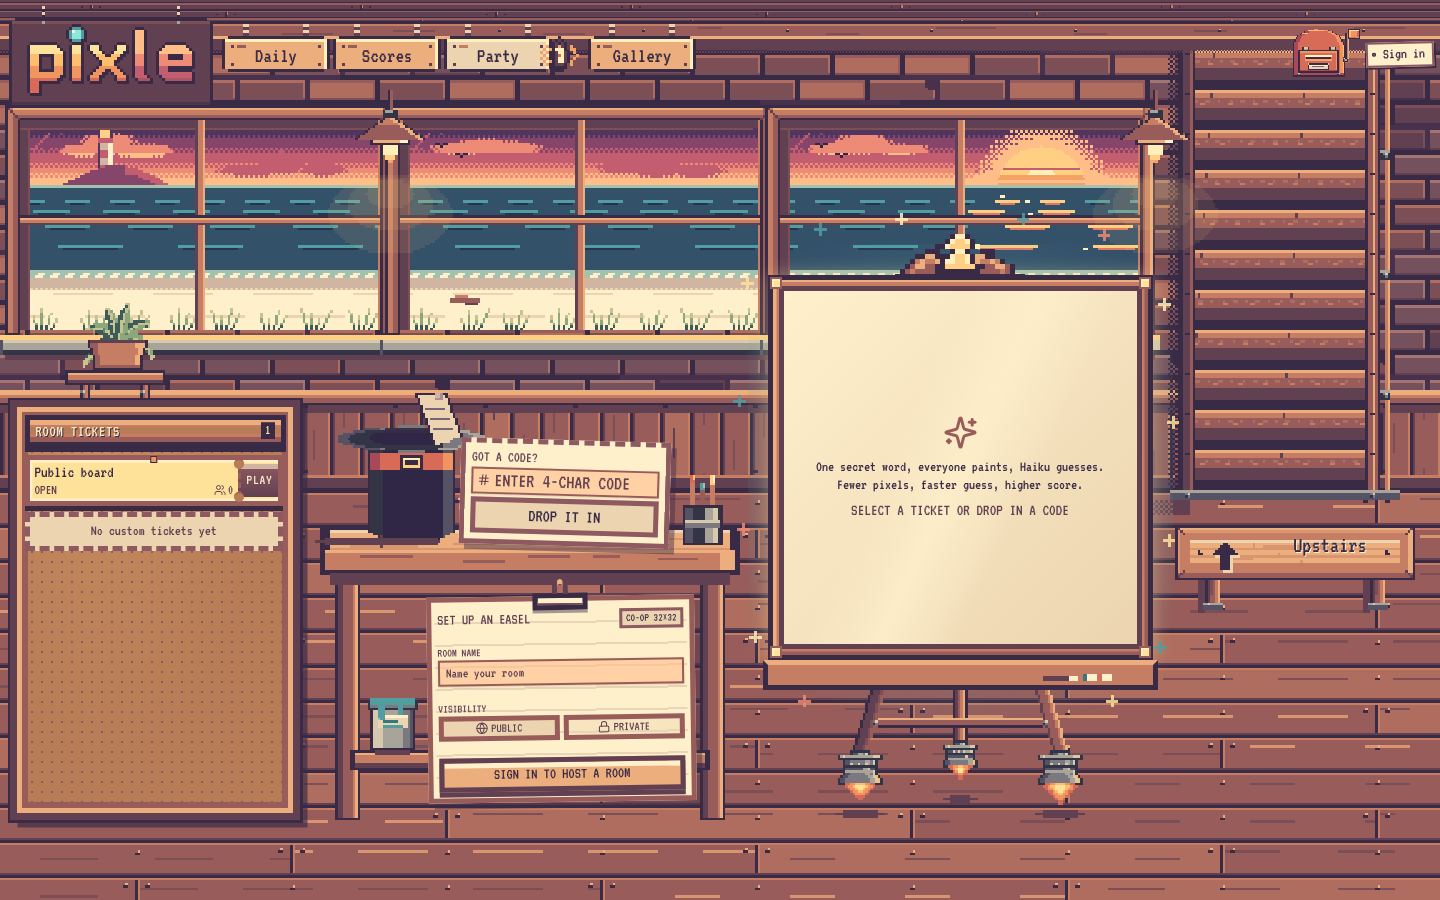
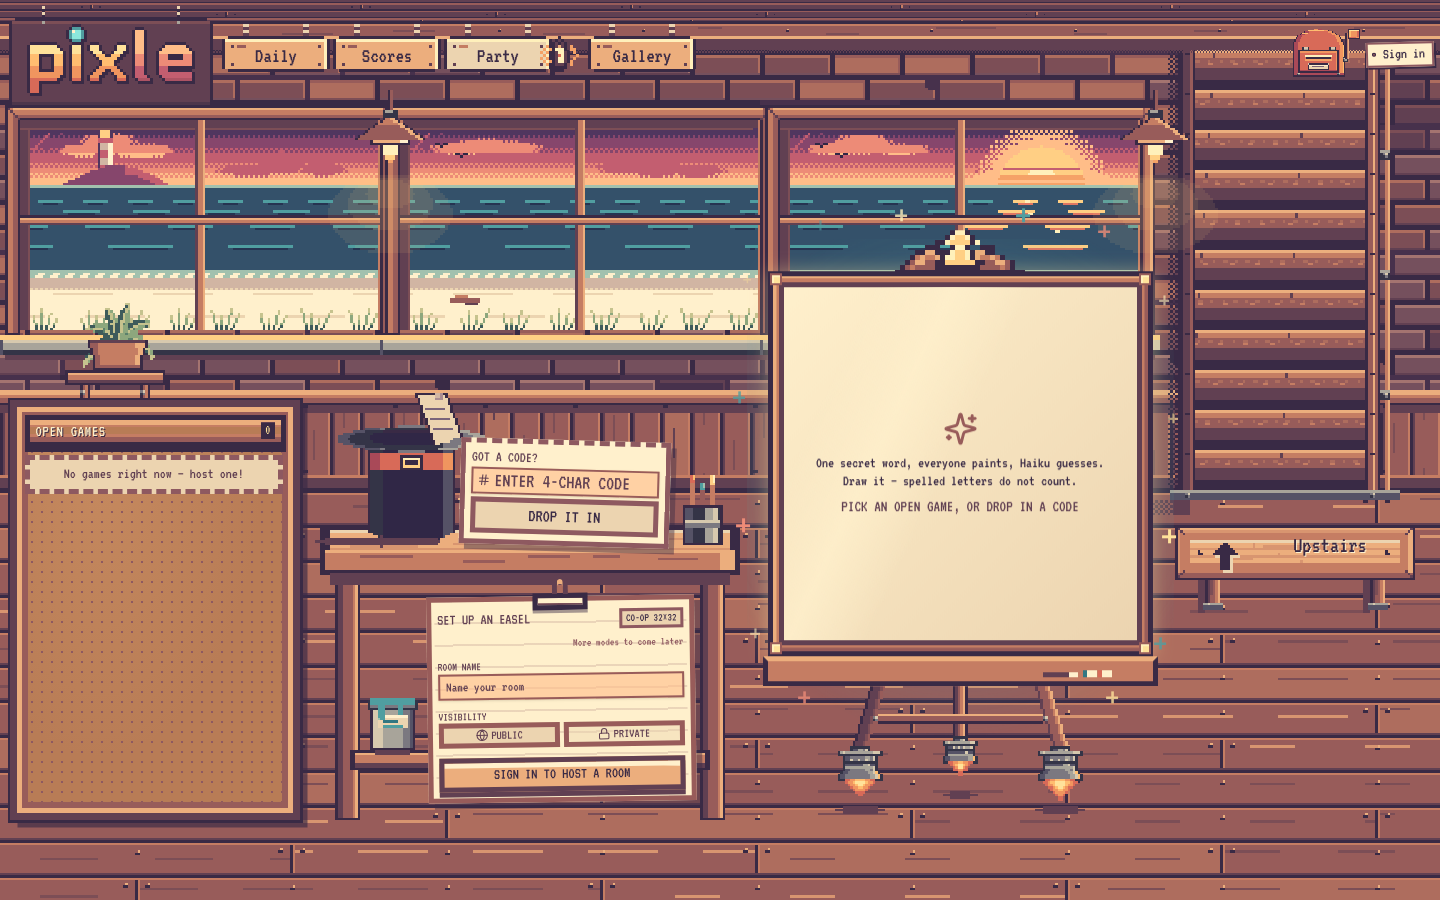
fix: medal order on tied scores, visitor names on stats, bare /u; refresh docs
- Leaderboard: on a tied score the stored medal wins, so a closed day never
  shows silver above gold (2026-11-21 was closed under the old tie-break).
- Stats card and dialog show the name the page already knows when a
  signed-out visitor can't load stats, instead of "Player".
- /u with no id sends a player to their own gallery and a visitor to the
  porch, instead of an empty sky.
- README party screenshot recaptured from the live site; progress log gains
  a "current state" section so older entries read as history.

diff --git a/src/components/stats/PlayerStatsDialog.tsx b/src/components/stats/PlayerStatsDialog.tsx
@@ -6,6 +6,8 @@ import './stats.css'
 
 export interface PlayerStatsDialogProps {
   userId: string
+  /** The name the board shows for this player, until the stats arrive (or for a signed-out visitor). */
+  name?: string | null
   onClose: () => void
   /** Where focus goes after the dialog closes (usually the name that opened it). */
   finalFocus?: () => HTMLElement | null
@@ -18,7 +20,7 @@ export interface PlayerStatsDialogProps {
  * capture phase and stopped there: on `/scores` Escape is also the way back to the porch, and a
  * key that puts the card away must not also retire from the board (the DrawingViewer does the same).
  */
-export function PlayerStatsDialog({ userId, onClose, finalFocus, onSeeGallery }: PlayerStatsDialogProps) {
+export function PlayerStatsDialog({ userId, name, onClose, finalFocus, onSeeGallery }: PlayerStatsDialogProps) {
   useEffect(() => {
     const onKey = (event: KeyboardEvent) => {
       if (event.key !== 'Escape') return
@@ -41,7 +43,7 @@ export function PlayerStatsDialog({ userId, onClose, finalFocus, onSeeGallery }:
         finalFocus={finalFocus}
       >
         <h2 id="player-stats-dialog-title" className="pstats-dialog__title">Player stats</h2>
-        <PlayerStatsCard userId={userId} variant="dialog" />
+        <PlayerStatsCard userId={userId} variant="dialog" name={name} />
         <div className="pstats-dialog__actions">
           <Link
             to={href}

diff --git a/src/components/stats/PlayerStatsCard.tsx b/src/components/stats/PlayerStatsCard.tsx
@@ -86,13 +86,16 @@ export interface PlayerStatsCardProps {
   userId: string
   /** `plaque` is the wall-side card on a player's page; `dialog` sits inside the Scores dialog. */
   variant?: 'plaque' | 'dialog'
+  /** The name the page already knows, shown while stats load or when a visitor can't read them. */
+  name?: string | null
 }
 
 /** A player's daily and party numbers, with loading, empty, signed-out and error states. */
-export function PlayerStatsCard({ userId, variant = 'dialog' }: PlayerStatsCardProps) {
+export function PlayerStatsCard({ userId, variant = 'dialog', name }: PlayerStatsCardProps) {
   const titleId = useId()
   const { status, stats, retry } = usePlayerStats(userId)
-  const initial = Array.from(stats?.name?.trim() || 'P')[0] ?? 'P'
+  const displayName = stats?.name?.trim() || name?.trim() || 'Player'
+  const initial = Array.from(displayName)[0] ?? 'P'
 
   return (
     <article
@@ -109,7 +112,7 @@ export function PlayerStatsCard({ userId, variant = 'dialog' }: PlayerStatsCardP
         </Avatar>
         <div className="pstats-id">
           <h2 id={titleId} className="pstats-name" data-testid="player-stats-name">
-            {stats?.name?.trim() || 'Player'}
+            {displayName}
           </h2>
           <p className="pstats-tagline">
             {status === 'ready' && stats

diff --git a/src/components/daily/Leaderboard.tsx b/src/components/daily/Leaderboard.tsx
@@ -171,6 +171,7 @@ export function Leaderboard({
   // A name or avatar opens the player's stats card; the row's artwork still opens the painting. Keyboard
   // activation of the row link (`detail === 0`) opens the same card, and the card links on to the gallery.
   const [statsUserId, setStatsUserId] = useState<string | null>(null)
+  const [statsName, setStatsName] = useState<string | null>(null)
   const closeStats = useCallback(() => {
     const userId = statsUserId
     setStatsUserId(null)
@@ -328,6 +329,7 @@ export function Leaderboard({
                       const onPlayer = event.detail === 0 || (event.target as Element).closest('[data-player-stats]') !== null
                       if (onPlayer) {
                         event.preventDefault()
+                        setStatsName(playerName)
                         setStatsUserId(score.userId)
                         return
                       }
@@ -423,6 +425,7 @@ export function Leaderboard({
       {statsUserId !== null && (
         <PlayerStatsDialog
           userId={statsUserId}
+          name={statsName}
           onClose={closeStats}
           finalFocus={() => rowLinkRefs.current.get(statsUserId) ?? null}
           onSeeGallery={onSelectPainter

diff --git a/src/game/daily/rank.ts b/src/game/daily/rank.ts
@@ -1,9 +1,19 @@
 /**
  * Tie-break rule: equal scores go to whoever started their attempt earlier that day. Elapsed time is
  * irrelevant now that every attempt runs the full five minutes.
+ *
+ * A closed day already has medals stamped by the day close, so on a tie the stored medal wins: the board
+ * never shows silver above gold, even for a day that was closed under an earlier tie-break rule.
  */
-export function rankScores(rows: { userId: string; score: number; startedAt?: number | null }[]): { userId: string; rank: number }[] {
+type RankRow = { userId: string; score: number; startedAt?: number | null; medal?: number | null }
+
+const medalOrder = (row: RankRow) => (row.medal && row.medal > 0 ? row.medal : Infinity)
+
+export function rankScores(rows: RankRow[]): { userId: string; rank: number }[] {
   return [...rows]
-    .sort((first, second) => second.score - first.score || (first.startedAt ?? Infinity) - (second.startedAt ?? Infinity))
+    .sort((first, second) =>
+      second.score - first.score
+      || medalOrder(first) - medalOrder(second)
+      || (first.startedAt ?? Infinity) - (second.startedAt ?? Infinity))
     .map((row, index) => ({ userId: row.userId, rank: index + 1 }))
 }

diff --git a/src/game/daily/rank.test.ts b/src/game/daily/rank.test.ts
@@ -24,4 +24,13 @@ describe('rankScores', () => {
       { userId: 'known', score: 700, startedAt: 200_000 },
     ])).toEqual([{ userId: 'known', rank: 1 }, { userId: 'unknown', rank: 2 }])
   })
+
+  it('keeps the stored medal order of a closed day on a tie', () => {
+    expect(rankScores([
+      { userId: 'earlier', score: 837, startedAt: 100, medal: 2 },
+      { userId: 'gold', score: 837, startedAt: 900, medal: 1 },
+      { userId: 'third', score: 819, startedAt: 50, medal: 3 },
+      { userId: 'none', score: 700, startedAt: 10, medal: 0 },
+    ]).map((row) => row.userId)).toEqual(['gold', 'earlier', 'third', 'none'])
+  })
 })

diff --git a/src/pages/(app)/u/index.tsx b/src/pages/(app)/u/index.tsx
@@ -1,0 +1,12 @@
+import { Navigate } from 'react-router-dom'
+import { useAuthProfileReady } from 'deepspace'
+
+/**
+ * The bare `/u` (the nav's Gallery link opened directly or in a new tab) has no wall of its own: a signed-in player goes to their
+ * own gallery, and a visitor goes to the porch, where the Gallery sign offers sign-in.
+ */
+export default function GalleryIndexPage() {
+  const { userId, isLoaded } = useAuthProfileReady({ requireUser: false })
+  if (!isLoaded) return null
+  return <Navigate to={userId ? `/u/${encodeURIComponent(userId)}` : '/home'} replace />
+}

diff --git a/src/pages/(app)/u/[userId].tsx b/src/pages/(app)/u/[userId].tsx
@@ -176,7 +176,7 @@ export default function ProfilePage() {
         style={{ maxHeight: `${statsMaxHeight}px` }}
         onClick={(event) => event.stopPropagation()}
       >
-        <PlayerStatsCard userId={userId} variant="plaque" />
+        <PlayerStatsCard userId={userId} variant="plaque" name={name} />
       </aside>
       {/* DEV ONLY (__DEBUG_TOOLS__) */}
       {__DEBUG_TOOLS__ && isOwner && <TempDebugPaintings />}

diff --git a/docs/progress.md b/docs/progress.md
@@ -3,6 +3,21 @@
 Running record of design decisions, findings, and status for the DeepSpace build exercise.
 Newest entries at the bottom of each section. This doubles as source material for the final submission note.
 
+## Current state (as shipped, 2026-11-22)
+
+This log is chronological, so older entries describe rules that later changed. What is live now:
+
+- **Daily:** one 5-minute attempt per UTC day. Haiku judges once at 2:30 and gives a final verdict on Submit (or at 5:00).
+  Score out of 1000 = prompt match (0–500, 60/40 with the blind guess, capped low when the guess misses) plus an art
+  bonus (0–500) paid in proportion to the match. No speed component, no player "Ask" grades. Ties go to the earlier start.
+- **Party:** hosted rooms only (no always-on public board), co-op only (team mode is dormant in the code), click-and-drag
+  painting with a per-painter token bucket, no score: the round ends when Haiku guesses the word.
+- **Players:** server-written usernames (unique), a first-sign-in tour, player stats, galleries and top-3 medals at day close
+  (cron, 00:10 UTC).
+
+Entries below that mention speed scoring, minute 1–4 grades, Ask grades, the public board, cooldowns or team rounds are
+history: see the 2026-11-21 player-feedback round (PR #18) for the change.
+
 ## Brief (from the exercise)
 
 Build and deploy a small, finished full-stack app on DeepSpace within five days. Judged on scope judgment,
